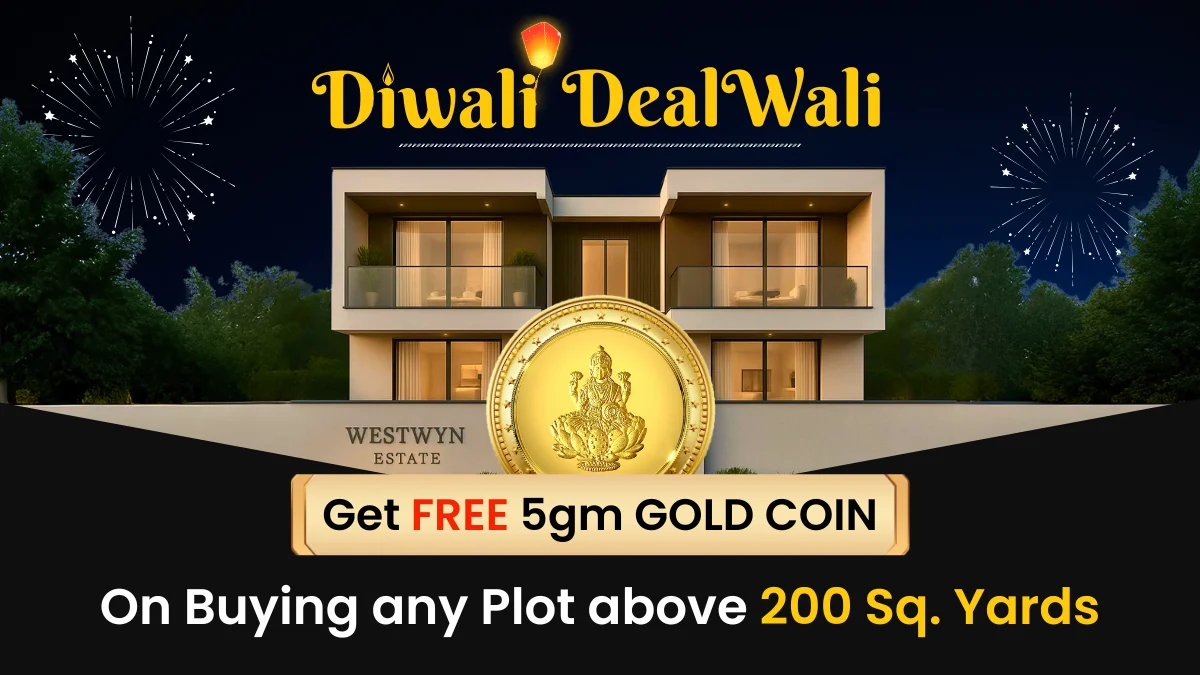
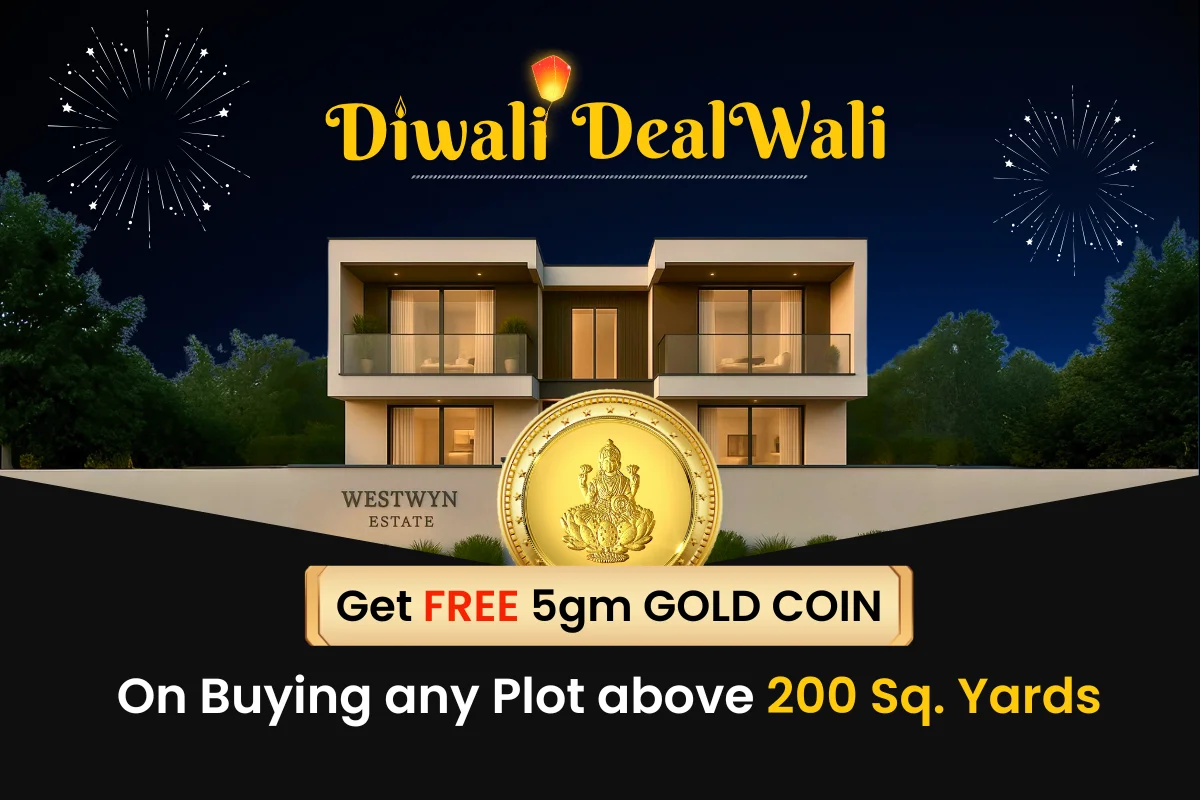
chnages

Changed region(s): [[0.0, 0.0, 1.0, 0.9644], [0.0, 0.3733, 0.0308, 0.4667]]

diff --git a/src/app/(main)/about/page.js b/src/app/(main)/about/page.js
@@ -84,11 +84,11 @@ const RealEstateLandingPage = () => {
       name: "BMA Developers",
       subtitle: "From Selling Projects to Creating Landmarks",
       description:
-        "BMA has been part of 5 successful projects that have been sold out, selling over 1,00,000 square yards of land in Dholera. We now don't just sell land, we build dreams.",
+        "BMA has been part of 6 successful projects that have been sold out, selling over 1,00,000 square yards of land in Dholera. We now don't just sell land, we build dreams.",
       icon: Building,
       color: "from-blue-500 to-blue-600",
       features: [
-        "6 Successful Projects",
+        "8 Successful Projects",
         "1,00,000+ Sq Yards Sold",
         "Premium Communities",
         "WestWyn County Project",
@@ -262,7 +262,7 @@ const RealEstateLandingPage = () => {
 
                   <p className="text-lg text-gray-300 leading-relaxed">
                     Discover premium, legally verified plots in Dholera Smart
-                    City. We don't just offer land—we offer a vision of the
+                    City. We don't just offer land-we offer a vision of the
                     future.
                   </p>
                 </div>
@@ -358,7 +358,7 @@ const RealEstateLandingPage = () => {
 
                     <p className="text-lg xl:text-xl text-gray-300 leading-relaxed">
                       Discover premium, legally verified plots in Dholera Smart
-                      City. We don't just offer land—we offer a vision of the
+                      City. We don't just offer land-we offer a vision of the
                       future.
                     </p>
                   </div>
@@ -419,11 +419,11 @@ const RealEstateLandingPage = () => {
         {/* About Us Section */}
         <div
           ref={aboutRef}
-          className="py-20 bg-gradient-to-br from-gray-50 to-white"
+          className="py-12 bg-gradient-to-br from-gray-50 to-white"
         >
           <div className="container mx-auto px-4">
             <div className="max-w-6xl mx-auto">
-              <div className="text-center mb-16">
+              <div className="text-center mb-8">
                 <h2 className="text-2xl sm:text-3xl lg:text-4xl font-bold text-gray-900 mb-4">
                   About Us
                 </h2>
@@ -432,7 +432,7 @@ const RealEstateLandingPage = () => {
                   <Star className="mx-4 text-yellow-500" size={24} />
                   <div className="h-1 w-16 bg-yellow-500 rounded"></div>
                 </div>
-                <p className="text-lg sm:text-xl text-yellow-600 font-bold mb-4">
+                <p className="text-lg  text-yellow-600 font-bold mb-4">
                   Focused on Your Growth. Driven by Your Trust.
                 </p>
               </div>
@@ -540,9 +540,9 @@ const RealEstateLandingPage = () => {
         </div>
 
         {/* BMA Group Companies Section */}
-        <div ref={companiesRef} className="py-20 bg-white">
+        <div ref={companiesRef} className="py-12 bg-white">
           <div className="container mx-auto px-4">
-            <div className="text-center mb-16">
+            <div className="text-center mb-8">
               <h2 className="text-3xl lg:text-4xl font-bold text-gray-900 mb-4">
                 BMA Group of Companies
               </h2>
@@ -551,7 +551,7 @@ const RealEstateLandingPage = () => {
                 <Star className="mx-4 text-yellow-500" size={24} />
                 <div className="h-1 w-16 bg-yellow-500 rounded"></div>
               </div>
-              <p className="text-xl text-black max-w-4xl mx-auto">
+              <p className="text-xl text-black max-w-5xl mx-auto">
                 Four strong arms, each one created to serve you better, faster,
                 and smarter in your real estate investment journey.
               </p>
@@ -568,7 +568,7 @@ const RealEstateLandingPage = () => {
                   }`}
                   style={{ transitionDelay: `${index * 200}ms` }}
                 >
-                  <div className="bg-gray-900 backdrop-blur-xl rounded-3xl p-8 border border-white/20 hover:border-yellow-500 transition-all duration-500 h-full">
+                  <div className="bg-gray-900 backdrop-blur-xl rounded-3xl p-6 border border-white/20 hover:border-yellow-500 transition-all duration-500 h-full">
                     <div className="flex items-center space-x-4 mb-6">
                       <div
                         className={`w-16 h-16 rounded-2xl bg-gradient-to-br ${company.color} flex items-center justify-center group-hover:rotate-12 transition-transform duration-300`}
@@ -613,9 +613,9 @@ const RealEstateLandingPage = () => {
         </div>
 
         {/* Milestones Section - Glassmorphism Design */}
-        <div className="py-20 bg-gradient-to-b from-gray-50 to-white">
+        <div className="py-12 bg-gradient-to-b from-gray-50 to-white">
           <div className="container mx-auto px-4">
-            <div className="text-center mb-16">
+            <div className="text-center mb-8">
               <h2 className="text-3xl lg:text-4xl font-bold text-gray-900 mb-4">
                 Our Milestones
               </h2>
@@ -670,9 +670,9 @@ const RealEstateLandingPage = () => {
         </div>
 
         {/* Why Choose Us Section - Cards with Hover Effects */}
-        <div ref={featuresRef} className="py-20 bg-gray-900">
+        <div ref={featuresRef} className="py-12 bg-gray-900">
           <div className="container mx-auto px-4">
-            <div className="text-center mb-16">
+            <div className="text-center mb-8">
               <h2 className="text-3xl lg:text-4xl font-bold text-white mb-4">
                 Why Choose Us?
               </h2>
@@ -681,7 +681,7 @@ const RealEstateLandingPage = () => {
                 <Star className="mx-4 text-yellow-500" size={24} />
                 <div className="h-1 w-16 bg-yellow-500 rounded"></div>
               </div>
-              <p className="text-xl text-gray-300 max-w-3xl mx-auto">
+              <p className="text-xl text-gray-300 max-w-4xl mx-auto">
                 We go beyond just selling properties we create investment
                 opportunities that build your future.
               </p>
@@ -741,7 +741,7 @@ const RealEstateLandingPage = () => {
                   }`}
                   style={{ transitionDelay: `${index * 100}ms` }}
                 >
-                  <div className="bg-gradient-to-br from-white/10 to-white/5 backdrop-blur-md rounded-2xl p-8 border border-white/20 hover:border-yellow-500 transition-all duration-300 h-full">
+                  <div className="bg-gradient-to-br from-white/10 to-white/5 backdrop-blur-md rounded-2xl p-6 border border-white/20 hover:border-yellow-500 transition-all duration-300 h-full">
                     <div
                       className={`w-16 h-16 rounded-xl bg-gradient-to-br ${feature.color} flex items-center justify-center mb-6`}
                     >
@@ -763,7 +763,7 @@ const RealEstateLandingPage = () => {
         {/* Testimonials Section */}
         <div
           ref={testimonialsRef}
-          className="py-20 bg-gradient-to-br from-gray-50 to-gray-100"
+          className="py-12 bg-gradient-to-br from-gray-50 to-gray-100"
         >
           <div className="container mx-auto px-4">
             <div className="text-center mb-16">
@@ -775,7 +775,7 @@ const RealEstateLandingPage = () => {
                 <Star className="mx-4 text-yellow-500" size={24} />
                 <div className="h-1 w-16 bg-yellow-500 rounded"></div>
               </div>
-              <p className="text-xl text-gray-600 max-w-3xl mx-auto">
+              <p className="text-xl text-gray-600 max-w-4xl mx-auto">
                 Don't just take our word for it. Here's what our investors have
                 to say about their experience with us.
               </p>
@@ -846,9 +846,9 @@ const RealEstateLandingPage = () => {
         </div>
 
         {/* CTA Section */}
-        <div className="py-20 bg-white">
+        <div className="py-12 bg-white">
           <div className="container mx-auto px-4">
-            <div className="max-w-4xl mx-auto text-center">
+            <div className="max-w-6xl mx-auto text-center">
               <h2 className="text-3xl md:text-4xl font-bold text-slate-900 mb-6">
                 Ready to Invest in Your Future?
               </h2>

diff --git a/src/app/(main)/homeComponents/Hero2.jsx b/src/app/(main)/homeComponents/Hero2.jsx
@@ -7,12 +7,13 @@ import logo from "@/assests/festival-images/dholera-diwali.webp"
 import { ChevronRight, ChevronLeft } from "lucide-react";
 
 //images import
-//import img1 from "@/assests/diwali-offer-banner.webp";
-import img1 from "@/assests/hero1.webp";
+import img1 from "@/assests/diwali-offer-banner.webp";
+//import img1 from "@/assests/hero1.webp";
 import img2 from "@/assests/hero2.webp";
 import img3 from "@/assests/ad-page/img3.webp";
 
-import imgM1 from "@/assests/hero_mob1.webp";
+//import imgM1 from "@/assests/hero_mob1.webp";
+import imgM1 from "@/assests/diwali-estate-mobile-banner.webp";
 import imgM2 from "@/assests/hero_mob2.webp";
 import imgM3 from "@/assests/ad-page/mob3.webp";
 import BrochureDownload from "../components/BrochureDownload";

diff --git a/src/app/(main)/dholera-residential-plots/westwyn-estate/page.jsx b/src/app/(main)/dholera-residential-plots/westwyn-estate/page.jsx
@@ -372,7 +372,7 @@ export default function HeroCarousel() {
         <InvestmentBenefits />
       </div>
 
-      <CommonForm title="Get Plots Under from ₹10 Lakhs at 0 KM from Dholera SIR " />
+      <CommonForm title="Get Plots Under ₹10 Lakhs at 0 KM from Dholera SIR " />
       <ProjectAmenities />
 
       <div className="pt-4 pb-4">

diff --git a/src/app/(main)/components/BrochureDownload.jsx b/src/app/(main)/components/BrochureDownload.jsx
@@ -394,7 +394,6 @@ const onRecaptchaSuccess = async (token) => {
               className="text-center mb-6 pt-4"
             >
               <h2 className="text-3xl font-bold text-white mb-2">{title}</h2>
-              <p className="text-gray-300 text-sm">Only for first 10 users</p>
             </motion.div>
 
             {showPopup ? (
